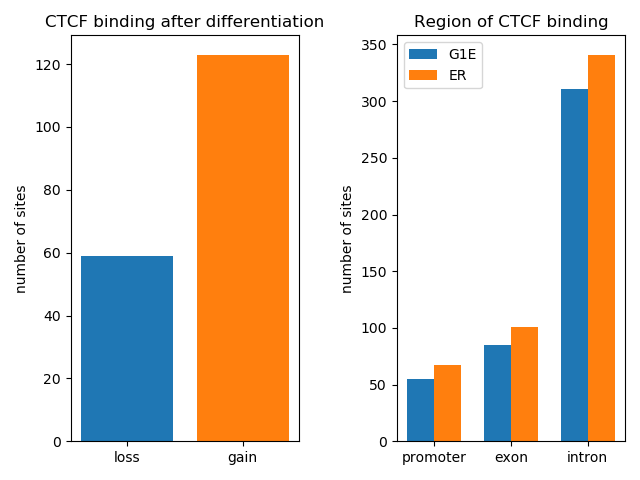
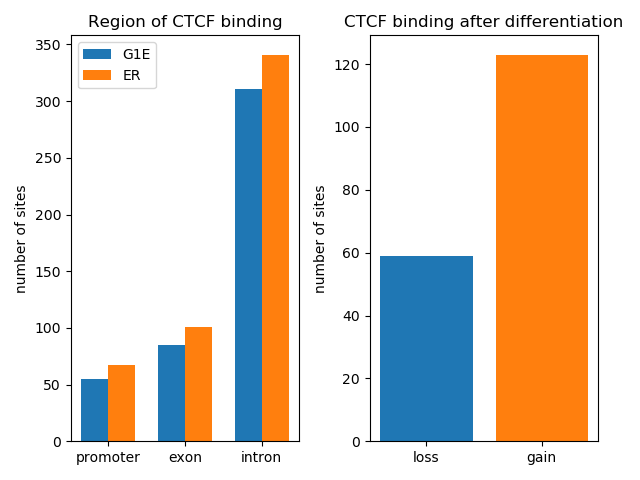
correct orientation

diff --git a/week6/featuremap.py b/week6/featuremap.py
@@ -55,22 +55,22 @@ G1Efeature_plot.append(G1Eintron_count)
 #print (ERfeature_plot, G1Efeature_plot)
 x1= ["loss", "gain"]    
 fig, (ax1, ax2) = plt.subplots(ncols=2)
-ax1.bar(x1[0], loss_counter)
-ax1.bar(x1[1], gain_counter)
-ax1.set_ylabel("number of sites")
-ax1.set_title("CTCF binding after differentiation")
+ax2.bar(x1[0], loss_counter)
+ax2.bar(x1[1], gain_counter)
+ax2.set_ylabel("number of sites")
+ax2.set_title("CTCF binding after differentiation")
 
 
 width = 0.35
 x2 = ["promoter", "exon", "intron"]
 x = np.arange(len(x2))
-ax2.bar(x - width/2, G1Efeature_plot, width, label="G1E")
-ax2.bar(x + width/2, ERfeature_plot, width, label="ER")
-ax2.set_ylabel("number of sites")
-ax2.set_xticks(x)
-ax2.set_xticklabels(x2)
-ax2.set_title("Region of CTCF binding")
-ax2.legend()
+ax1.bar(x - width/2, G1Efeature_plot, width, label="G1E")
+ax1.bar(x + width/2, ERfeature_plot, width, label="ER")
+ax1.set_ylabel("number of sites")
+ax1.set_xticks(x)
+ax1.set_xticklabels(x2)
+ax1.set_title("Region of CTCF binding")
+ax1.legend()
 fig.tight_layout()
 
 fig.savefig( "Plot.png" )
